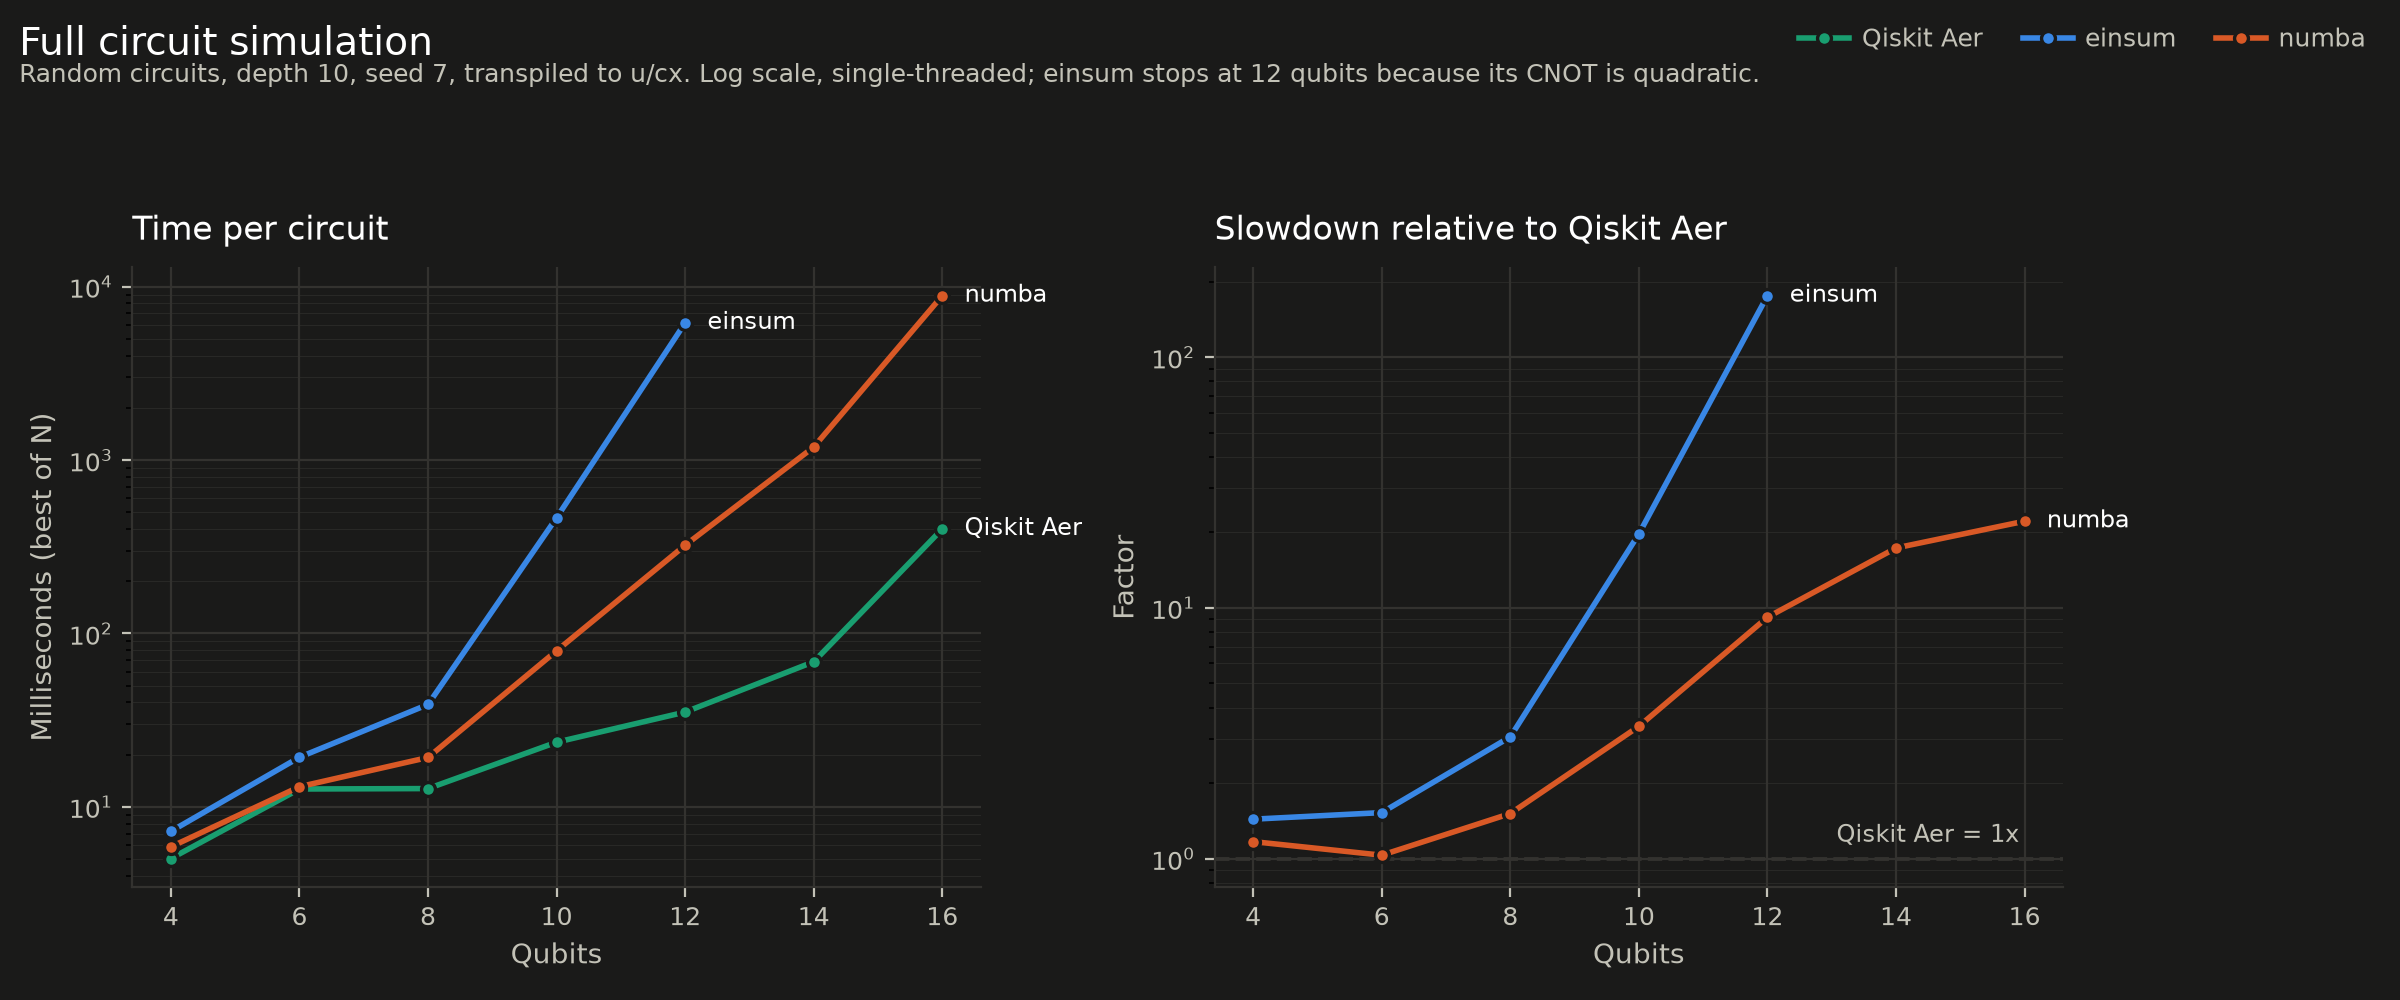
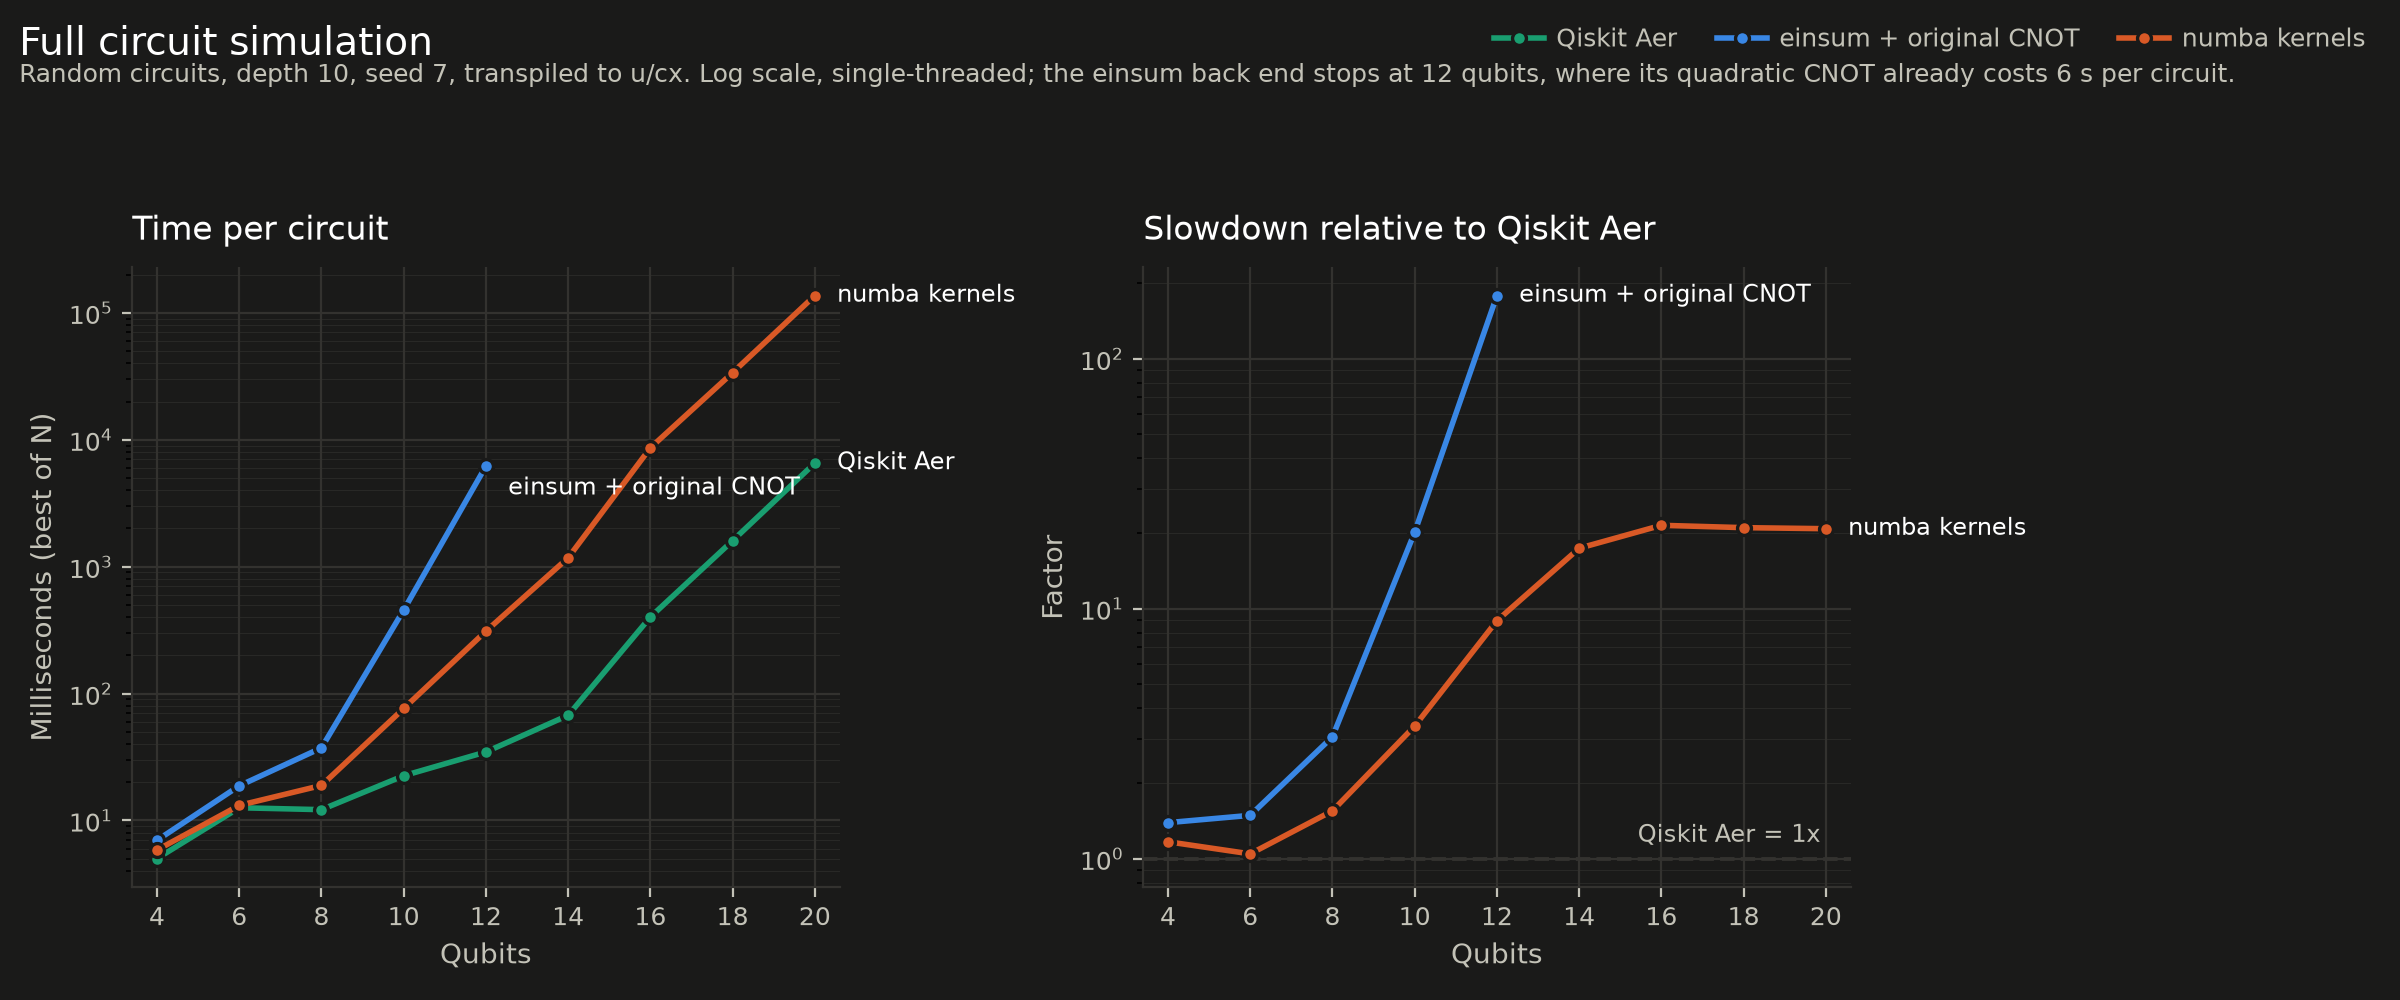
plots für random circuit_benchmark

diff --git a/benchmarks/plot_circuit_benchmark.py b/benchmarks/plot_circuit_benchmark.py
@@ -36,9 +36,10 @@ import sys
 sys.path.insert(0, os.path.dirname(os.path.abspath(__file__)))
 
 # Sets OMP_NUM_THREADS and friends to 1 before NumPy is imported anywhere.
-from plot_gate_benchmark import PALETTE, THEME, measure, place_labels  # noqa: E402
+from plot_gate_benchmark import PALETTE, THEME, place_labels  # noqa: E402
 
 import json  # noqa: E402
+import time  # noqa: E402
 from pathlib import Path  # noqa: E402
 
 import matplotlib.pyplot as plt  # noqa: E402
@@ -48,7 +49,7 @@ import qiskit  # noqa: E402
 import block_quantenschaltung as qs  # noqa: E402
 
 #: Register sizes. Aer and the numba back end are measured across the whole range.
-QUBITS = [4, 6, 8, 10, 12, 14, 16]
+QUBITS = [4, 6, 8, 10, 12, 14, 16, 18, 20]
 
 #: The einsum back end applies CNOTs with a quadratic algorithm, so it is cut off early:
 #: at 14 qubits a single circuit already takes the better part of a minute.
@@ -61,10 +62,14 @@ DEPTH = 10
 SEED = 7
 
 #: Series label -> (front-end class, register sizes, palette slot).
+#:
+#: The labels name what each back end actually does. Calling :class:`simulate` "einsum"
+#: would be actively misleading: its einsum kernel is the fast half, and what dominates
+#: its runtime is the original quadratic CNOT it also uses.
 BACKENDS = {
     "Qiskit Aer": (qs.mock_simulate, QUBITS, "loop"),
-    "einsum": (qs.simulate, QUBITS_EINSUM, "numpy"),
-    "numba": (qs.simulate_no_einsum, QUBITS, "numba"),
+    "einsum + original CNOT": (qs.simulate, QUBITS_EINSUM, "numpy"),
+    "numba kernels": (qs.simulate_no_einsum, QUBITS, "numba"),
 }
 
 
@@ -106,6 +111,34 @@ def states_agree(first: np.ndarray, second: np.ndarray) -> bool:
     return bool(np.allclose(a, b * np.conj(phase / abs(phase)), atol=1e-8, rtol=1e-5))
 
 
+def measure_circuit(simulator, budget: float = 1.0, ceiling: int = 20) -> float:
+    """Time one full circuit simulation, in milliseconds, as the best of several runs.
+
+    A separate warm-up call is unnecessary here: :func:`collect` has already run the
+    simulator once to compare its state against the reference, which primes the caches
+    and forces any numba compilation. At 20 qubits a single circuit takes minutes, so
+    the repeat count is allowed to fall to one -- unlike in the gate benchmark, where
+    the kernels are cheap enough to always repeat.
+
+    Args:
+        simulator: A front-end instance with a ``perform_sim()`` method.
+        budget: Roughly how many seconds the whole measurement may take.
+        ceiling: Upper bound on the number of repetitions.
+
+    Returns:
+        The fastest observed run in milliseconds.
+    """
+    start = time.perf_counter()
+    simulator.perform_sim()
+    best = time.perf_counter() - start
+
+    for _ in range(int(np.clip(budget / max(best, 1e-9), 1, ceiling))):
+        start = time.perf_counter()
+        simulator.perform_sim()
+        best = min(best, time.perf_counter() - start)
+    return best * 1e3
+
+
 def collect() -> dict[str, tuple[list[int], list[float]]]:
     """Time every back end over the register sizes, checking they agree first.
 
@@ -130,7 +163,7 @@ def collect() -> dict[str, tuple[list[int], list[float]]]:
             elif not states_agree(reference, state):
                 raise AssertionError(f"{label} disagrees with the reference at {n} qubits")
 
-            elapsed = measure(lambda: simulator.perform_sim())
+            elapsed = measure_circuit(simulator)
             series[label][0].append(n)
             series[label][1].append(elapsed)
             print(f"  {label:12} {n:2d} qubits  {instructions:4d} instructions  "
@@ -215,10 +248,11 @@ def draw(series: dict[str, tuple[list[int], list[float]]], mode: str, destinatio
                     x=0.008, ha="left", y=0.975)
     figure.text(0.008, 0.918,
                 f"Random circuits, depth {DEPTH}, seed {SEED}, transpiled to u/cx. Log scale, "
-                "single-threaded; einsum stops at 12 qubits because its CNOT is quadratic.",
+                "single-threaded; the einsum back end stops at 12 qubits, where its quadratic "
+                "CNOT already costs 6 s per circuit.",
                 color=ink["secondary"], fontsize=9, ha="left")
 
-    figure.tight_layout(rect=(0, 0, 0.90, 0.885))
+    figure.tight_layout(rect=(0, 0, 0.855, 0.885))
     figure.savefig(destination, dpi=200, facecolor=ink["surface"])
     plt.close(figure)
     print(f"wrote {destination}", flush=True)
